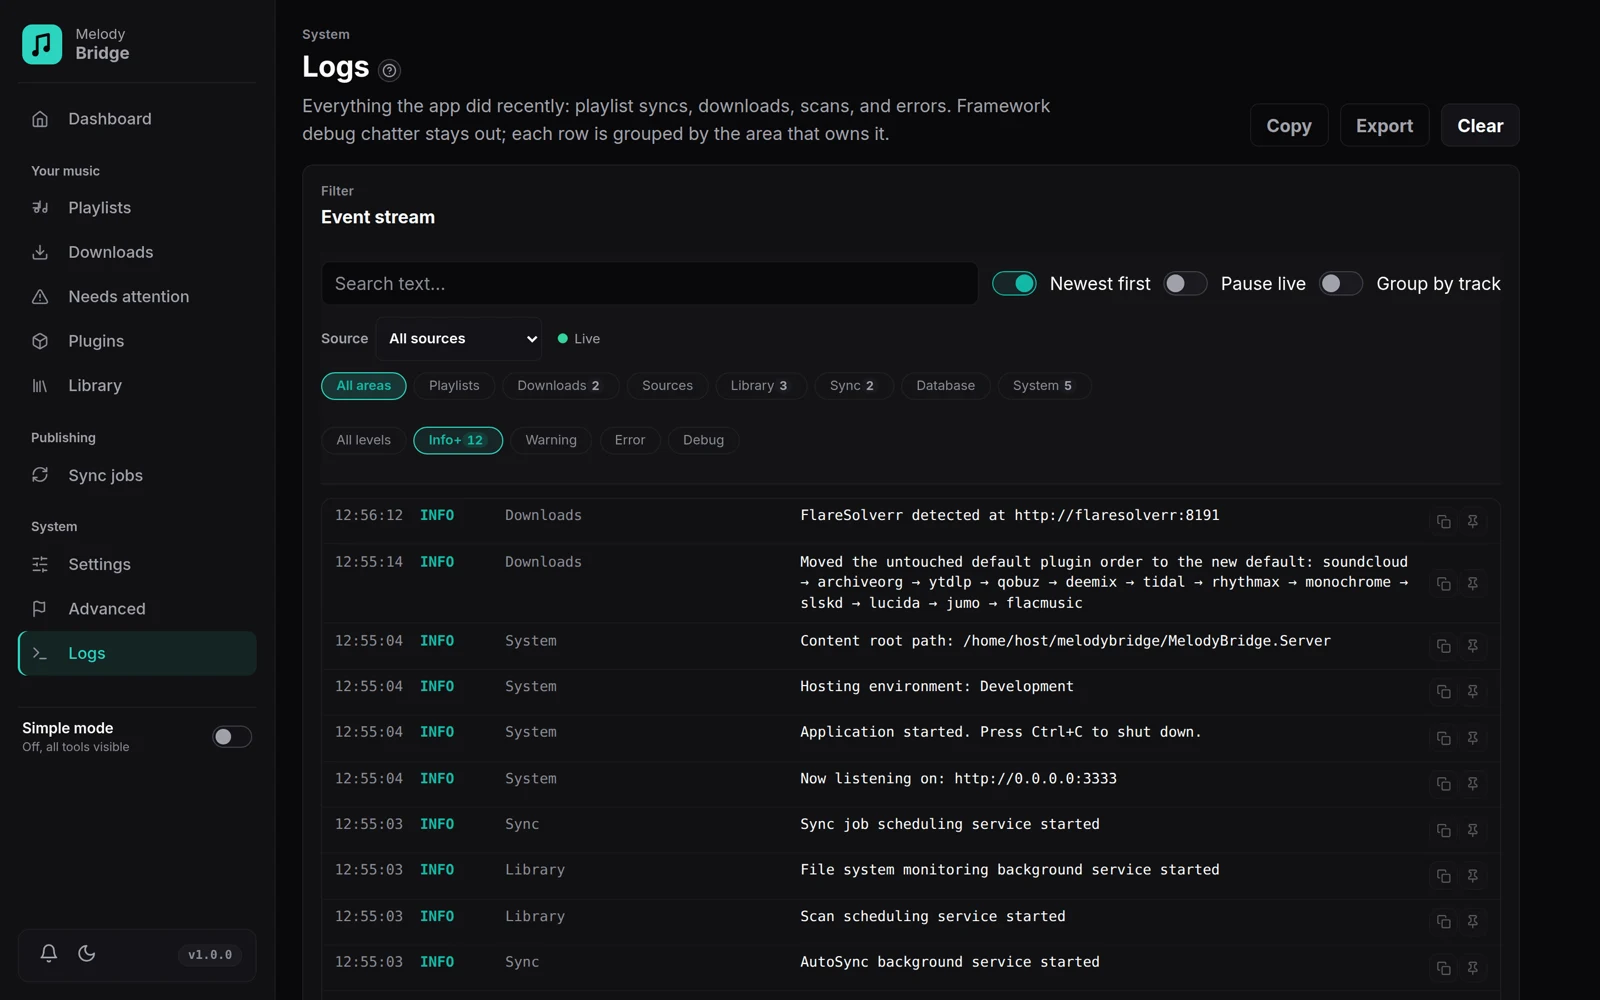
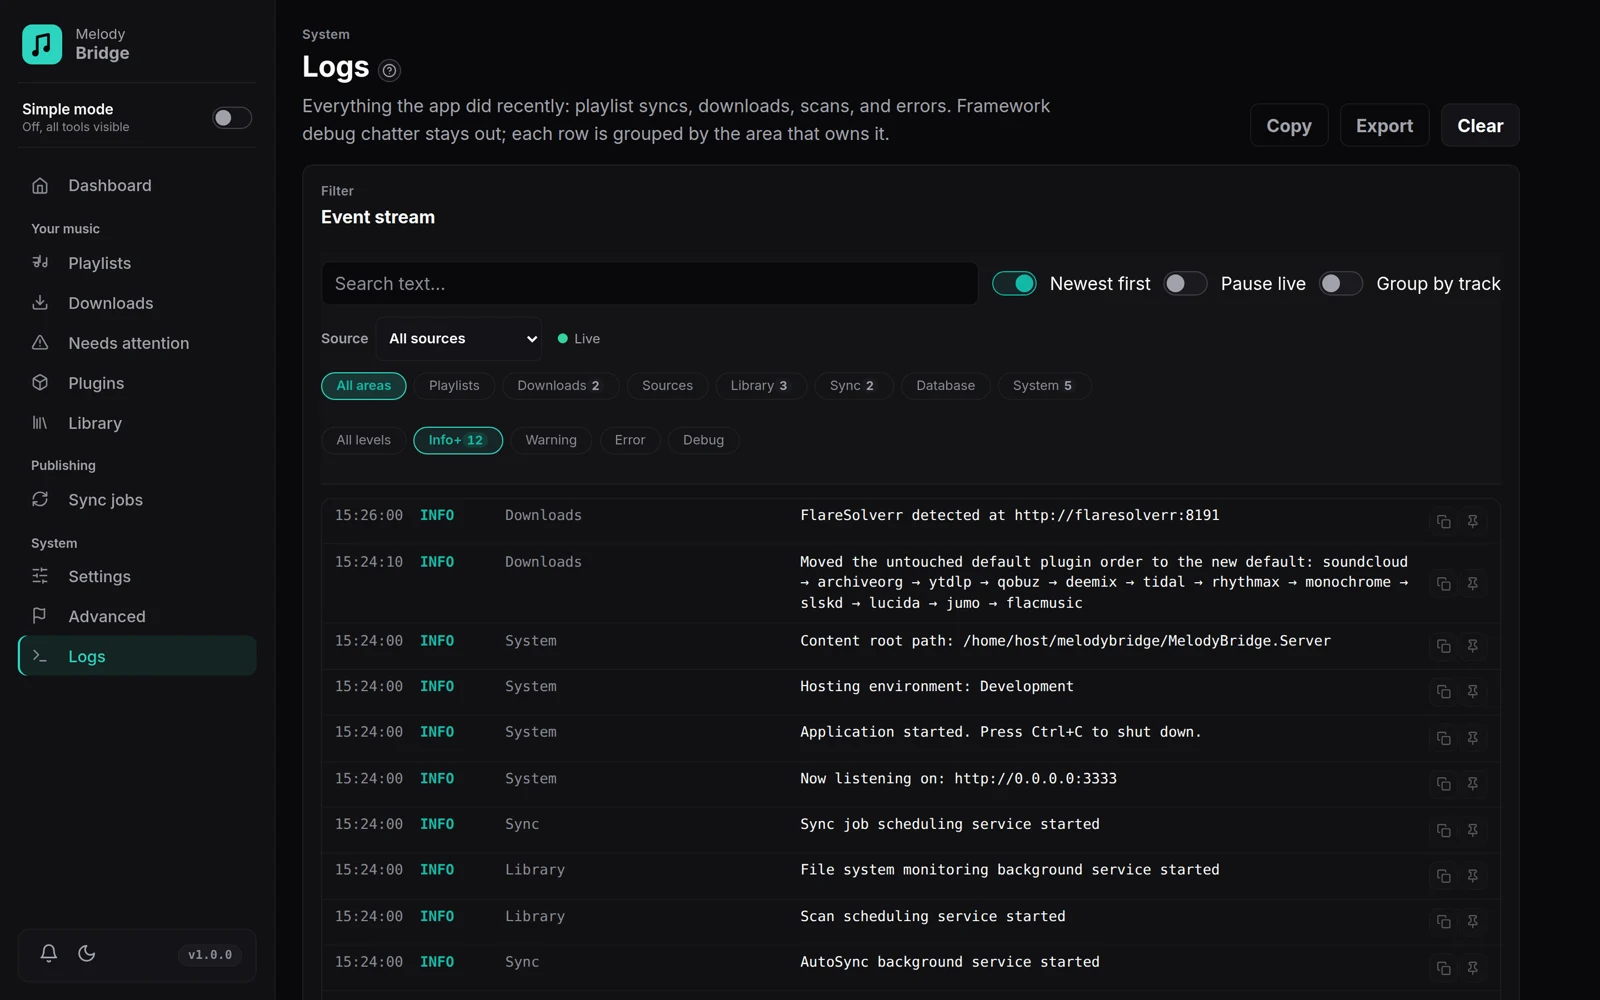
docs: refresh the screenshots for the new sidebar
Show the mode switch under the brand and the compact navigation in every refreshed page.

diff --git a/docs/quickstart.md b/docs/quickstart.md
@@ -36,7 +36,7 @@ On the first start MelodyBridge asks whether you want the simple or the advanced
 interface. Simple keeps the app to playlists, downloads, attention, sources and
 a basic sync jobs page, and gives you a two-step checklist. Advanced exposes the
 library, diagnostics and every setting. You can switch at any time from the
-switch at the bottom of the sidebar or from Settings, Appearance.
+switch at the top of the sidebar or from Settings, Appearance.
 
 <div class="steps">
 <div class="step" data-step="1">

diff --git a/docs/reference.md b/docs/reference.md
@@ -187,7 +187,7 @@ guided tour. **Interface** switches between **Simple**, which keeps the sidebar
 to the everyday tools, and **Advanced**, which also shows the library,
 diagnostics and logs. Simple also starts the plugin page in rows and trims the
 dashboard and attention page. A first install asks for the mode; the same
-switch sits at the bottom of the sidebar. Theme and accent are stored in this
+switch sits under the brand at the top of the sidebar. Theme and accent are stored in this
 browser only.
 
 ### About

diff --git a/docs/concepts.md b/docs/concepts.md
@@ -17,7 +17,7 @@ setting, and starts the plugins page as cards. Both modes use the same plugin
 controls and can switch between rows and cards.
 
 The choice is a starting point, not a lock. Switch any time from the mode switch
-at the bottom of the sidebar or from Settings, Appearance. Direct links to a hidden
+at the top of the sidebar or from Settings, Appearance. Direct links to a hidden
 page still work, so a bookmark or an existing link never breaks.
 
 ## From link to library
